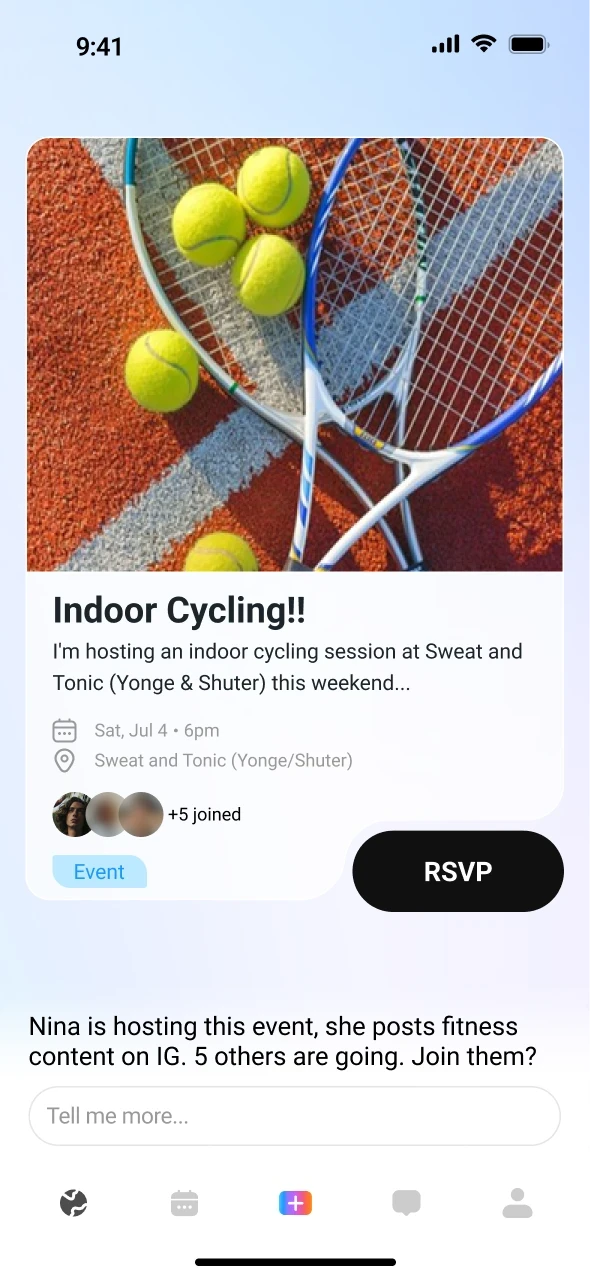
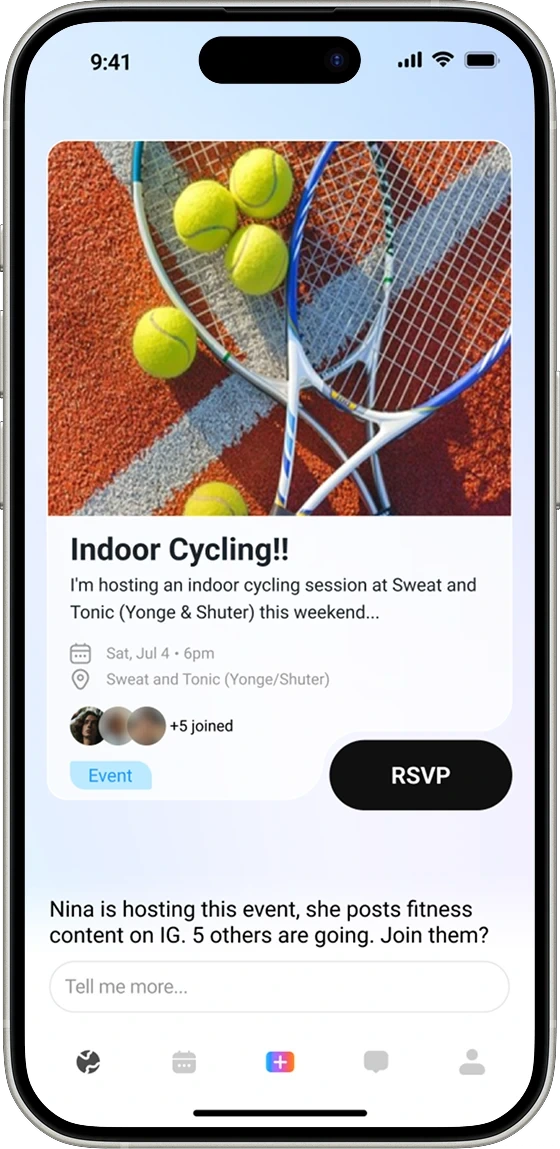
Wander key decision: use phone-case screens, drop the CSS black frame

diff --git a/wander/index.html b/wander/index.html
@@ -483,6 +483,9 @@ h3.lg{font-size:clamp(28px,3.4vw,44px)}
 .opts .lab{text-transform:uppercase}
 .opts .fshot{padding:16px 8px 8px}
 .opts .phone.mp{width:80%}
+.opts .phone.mp.phimg{background:none;padding:0;border-radius:0;aspect-ratio:auto}
+.opts .phone.mp.phimg .scr{background:none;border-radius:0;overflow:visible;display:block}
+.opts .phone.mp.phimg .scr img{height:auto;object-fit:contain}
 .opts .feat.on{box-shadow:inset 0 0 0 2px var(--pink)}
 .opts .feat.on .lab{background:var(--pink);color:var(--ink)}
 @media (max-width:700px){.opts{grid-template-columns:1fr}.opts .phone.mp{width:60%}}
@@ -905,9 +908,9 @@ h3{letter-spacing:-.02em}
       <p class="lede">It needed a new backend. I convinced the CEO it was worth it.</p>
     </div>
     <div class="opts">
-      <article class="feat"><div class="ft"><span class="lab">Assistant</span></div><div class="fshot"><div class="phone mp phimg" aria-label="Assistant"><div class="scr"><img src="../images/wander/decision-assistant.webp" alt="The Assistant version: an event feed with an AI helper bar at the bottom" width="786" height="1704" loading="lazy"></div></div></div></article>
-      <article class="feat"><div class="ft"><span class="lab">Matchmaker AI</span></div><div class="fshot"><div class="phone mp phimg" aria-label="Matchmaker AI"><div class="scr"><img src="../images/wander/decision-matchmaker.webp" alt="The Matchmaker version: one AI-picked event card with a line about who is hosting" width="786" height="1704" loading="lazy"></div></div></div></article>
-      <article class="feat on"><div class="ft"><span class="lab">A friend who asks first</span></div><div class="fshot"><div class="phone mp phimg" aria-label="A friend who asks first"><div class="scr"><img src="../images/wander/decision-friend.webp" alt="The Friend version: the AI asks what you want to do this week, then offers one event" width="786" height="1704" loading="lazy"></div></div></div></article>
+      <article class="feat"><div class="ft"><span class="lab">Assistant</span></div><div class="fshot"><div class="phone mp phimg" aria-label="Assistant"><div class="scr"><img src="../images/wander/decision-assistant.webp?v=20261124a" alt="The Assistant version: an event feed with an AI helper bar at the bottom" width="560" height="1149" loading="lazy"></div></div></div></article>
+      <article class="feat"><div class="ft"><span class="lab">Matchmaker AI</span></div><div class="fshot"><div class="phone mp phimg" aria-label="Matchmaker AI"><div class="scr"><img src="../images/wander/decision-matchmaker.webp?v=20261124a" alt="The Matchmaker version: one AI-picked event card with a line about who is hosting" width="560" height="1149" loading="lazy"></div></div></div></article>
+      <article class="feat on"><div class="ft"><span class="lab">A friend who asks first</span></div><div class="fshot"><div class="phone mp phimg" aria-label="A friend who asks first"><div class="scr"><img src="../images/wander/decision-friend.webp?v=20261124a" alt="The Friend version: the AI asks what you want to do this week, then offers one event" width="560" height="1149" loading="lazy"></div></div></div></article>
     </div>
     <div class="block">
     <div class="head">
